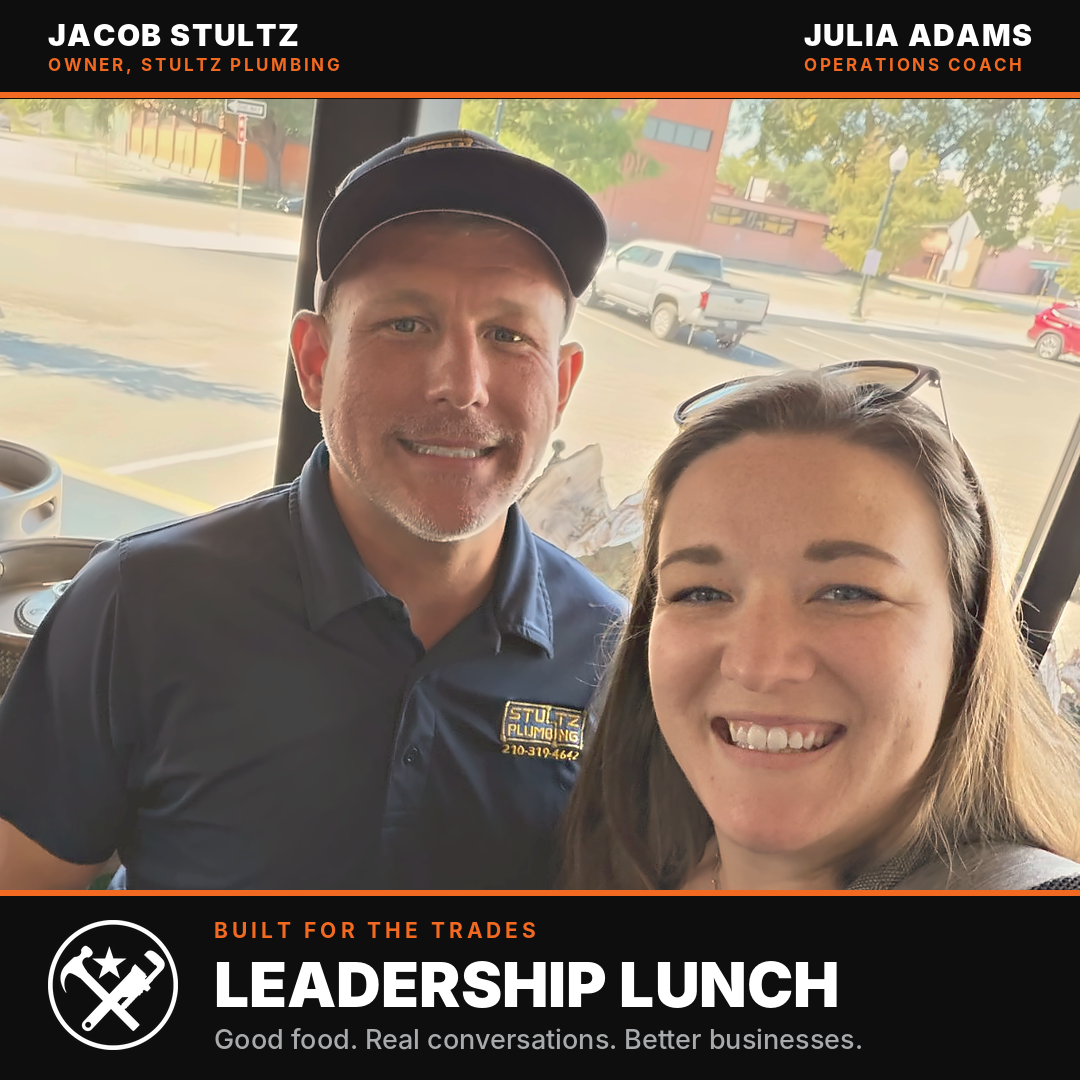
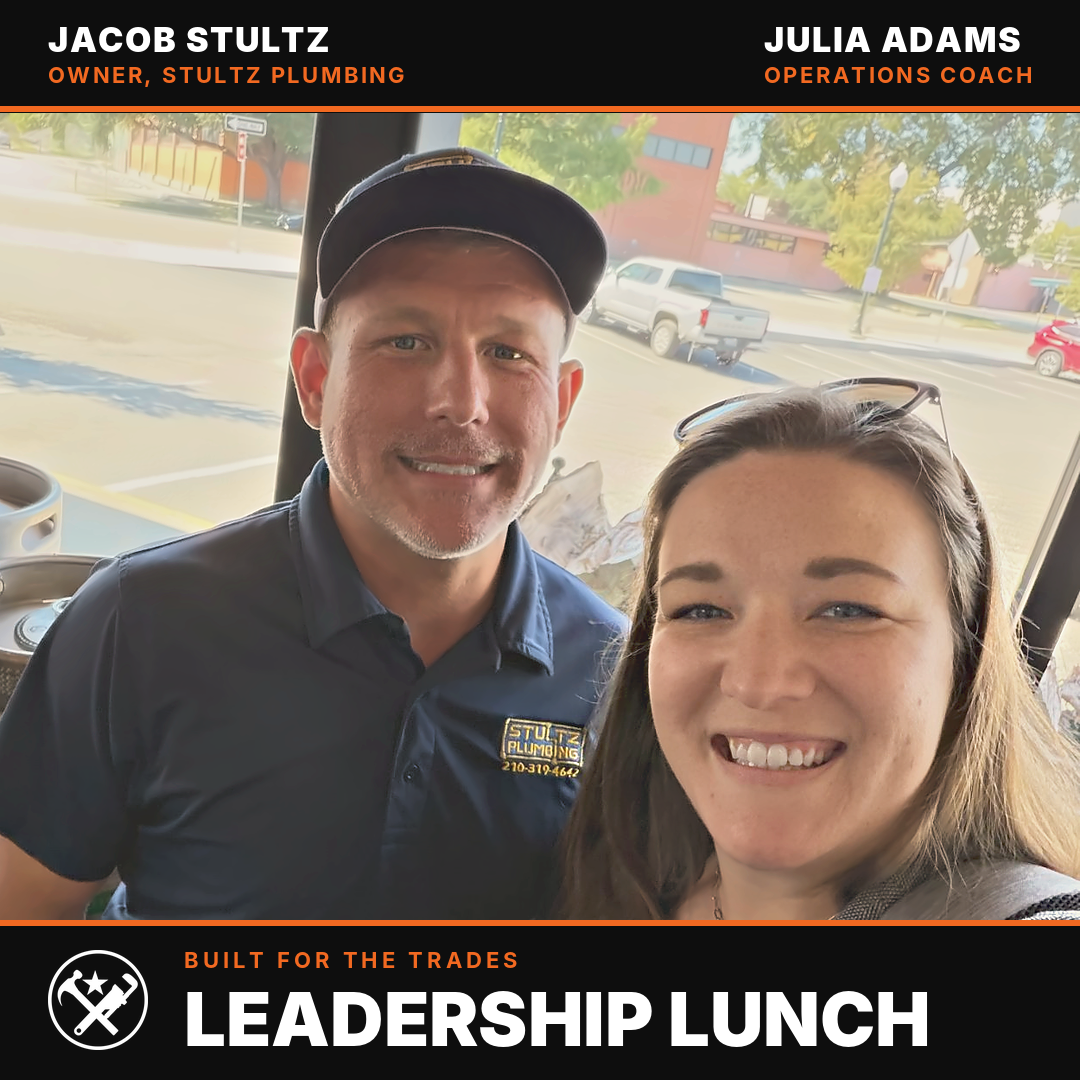
Improve phone readability: bigger header text, simpler footer, less haze
- Header: larger names and roles (34/22px), taller bar
- Footer: drop the tagline, enlarge the headline, slimmer band
  (subline is now optional per slide)
- Photo: gentler warm cast, more highlight easing, added contrast to
  cut the washed-out look; crop re-centered for the new photo area

Claude-Session: https://claude.ai/code/session_01S2DvsM7J99RSaBQsJzDE5i

diff --git a/scripts/brand_photos.py b/scripts/brand_photos.py
@@ -33,15 +33,16 @@ SIZE = 1080       # square post
 # Photo polish (applied at full resolution, before downscaling)
 MIDTONES = 0.86          # gamma < 1 brightens midtones (faces); 1 = off
 SHADOW_LIFT = 0.20       # brightens shadows (dark shirts, tables); 0 = off
-HIGHLIGHT_EASE = 0.10    # pulls blown highlights (windows) back; 0 = off
-WARMTH = (1.04, 1.00, 0.94)   # per-channel gain (R, G, B): subtle warm cast
+HIGHLIGHT_EASE = 0.14    # pulls blown highlights (windows) back; 0 = off
+WARMTH = (1.02, 1.00, 0.97)   # per-channel gain (R, G, B): subtle warm cast
 SATURATION = 1.08
+CONTRAST = 1.09           # restores punch after the shadow lift
 CLARITY = 22             # local-contrast percent (large-radius unsharp); 0 = off
 SHARPEN = 70             # final detail sharpening percent, applied after downscale
 JPEG_QUALITY = 95
 RULE_H = 6               # orange rule between photo and band
-BAND_H = 190             # height of the branded footer band
-HEADER_H = 98            # height of the header bar (people); 0 for no header
+BAND_H = 160             # height of the branded footer band
+HEADER_H = 112            # height of the header bar (people); 0 for no header
 PAD = 48                 # side padding
 
 # Retouch regions for the selfie, in pixels of the ORIGINAL photo (see scripts/retouch.py).
@@ -79,7 +80,7 @@ SELFIE_RETOUCH = {
 SLIDES = [
     {
         "photo": ROOT / "photos" / "lunch-selfie-01.jpg",
-        "focus": (875, 932),     # centers Jacob and Julia
+        "focus": (875, 938),     # centers Jacob and Julia
         "zoom": 1.2,             # crop in 20%: trims the empty keg/window space on the left
         "header": [              # (name, role, side): who is in the photo
             ("JACOB STULTZ", "OWNER, STULTZ PLUMBING", "left"),
@@ -87,7 +88,7 @@ SLIDES = [
         ],
         "retouch": SELFIE_RETOUCH,
         "headline": "LEADERSHIP LUNCH",
-        "subline": "Good food. Real conversations. Better businesses.",
+        "subline": None,         # optional tagline under the headline
         "out": ROOT / "output" / "leadership-lunch.png",
     },
 ]
@@ -114,6 +115,7 @@ def polish(img):
     x = x * np.array(WARMTH, dtype=np.float32)
     img = Image.fromarray((np.clip(x, 0, 1) * 255).astype(np.uint8))
     img = ImageEnhance.Color(img).enhance(SATURATION)
+    img = ImageEnhance.Contrast(img).enhance(CONTRAST)
     if CLARITY:
         img = img.filter(ImageFilter.UnsharpMask(radius=img.width / 40, percent=CLARITY, threshold=0))
     return img
@@ -161,9 +163,9 @@ def draw_header(canvas, people, brand):
     draw = ImageDraw.Draw(canvas)
     draw.rectangle((0, 0, SIZE, HEADER_H), fill=brand["band"])
     draw.rectangle((0, HEADER_H - RULE_H, SIZE, HEADER_H - 1), fill=brand["accent"])
-    f_name = ImageFont.truetype(brand["font_head"], 30)
-    f_role = ImageFont.truetype(brand["font_label"], 17)
-    track = 2.6
+    f_name = ImageFont.truetype(brand["font_head"], 34)
+    f_role = ImageFont.truetype(brand["font_label"], 22)
+    track = 2.4
     width = lambda t, f, tr: sum(draw.textlength(c, font=f) + tr for c in t) - tr
     gap = 8
     top = (HEADER_H - RULE_H - (f_name.size + gap + f_role.size)) // 2 - 2
@@ -196,16 +198,17 @@ def render(slide):
     draw = ImageDraw.Draw(canvas)
     tx = PAD + logo.width + 36
     max_w = SIZE - PAD - tx
-    label = ImageFont.truetype(b["font_label"], 21)
-    head = fit_font(b["font_head"], slide["headline"], max_w, 62, draw)
-    sub = fit_font(b["font_body"], slide["subline"], max_w, 27, draw)
+    label = ImageFont.truetype(b["font_label"], 22)
+    head = fit_font(b["font_head"], slide["headline"], max_w, 74, draw)
+    sub = fit_font(b["font_body"], slide["subline"], max_w, 27, draw) if slide.get("subline") else None
 
-    lh, hh, sh = 21, head.size, sub.size
-    gap1, gap2 = 14, 12
-    y = band_top + (BAND_H - (lh + gap1 + hh + gap2 + sh)) // 2
+    lh, hh, gap1, gap2 = 22, head.size, 12, 12
+    total = lh + gap1 + hh + ((gap2 + sub.size) if sub else 0)
+    y = band_top + RULE_H // 2 + (BAND_H - RULE_H - total) // 2
     draw_tracked(draw, (tx, y), b["name"], label, b["accent"], 4)
     draw.text((tx, y + lh + gap1 - 6), slide["headline"], font=head, fill=b["text"])
-    draw.text((tx, y + lh + gap1 + hh + gap2 - 4), slide["subline"], font=sub, fill=b["muted"])
+    if sub:
+        draw.text((tx, y + lh + gap1 + hh + gap2 - 4), slide["subline"], font=sub, fill=b["muted"])
     return canvas
 
 
